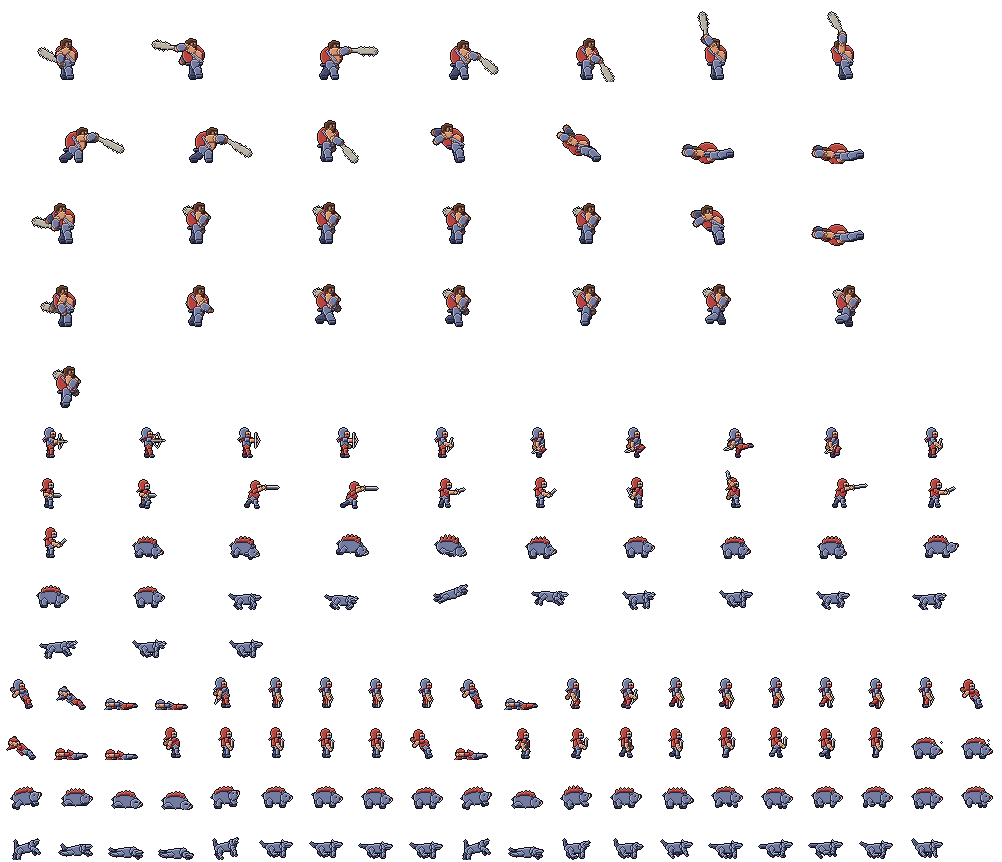
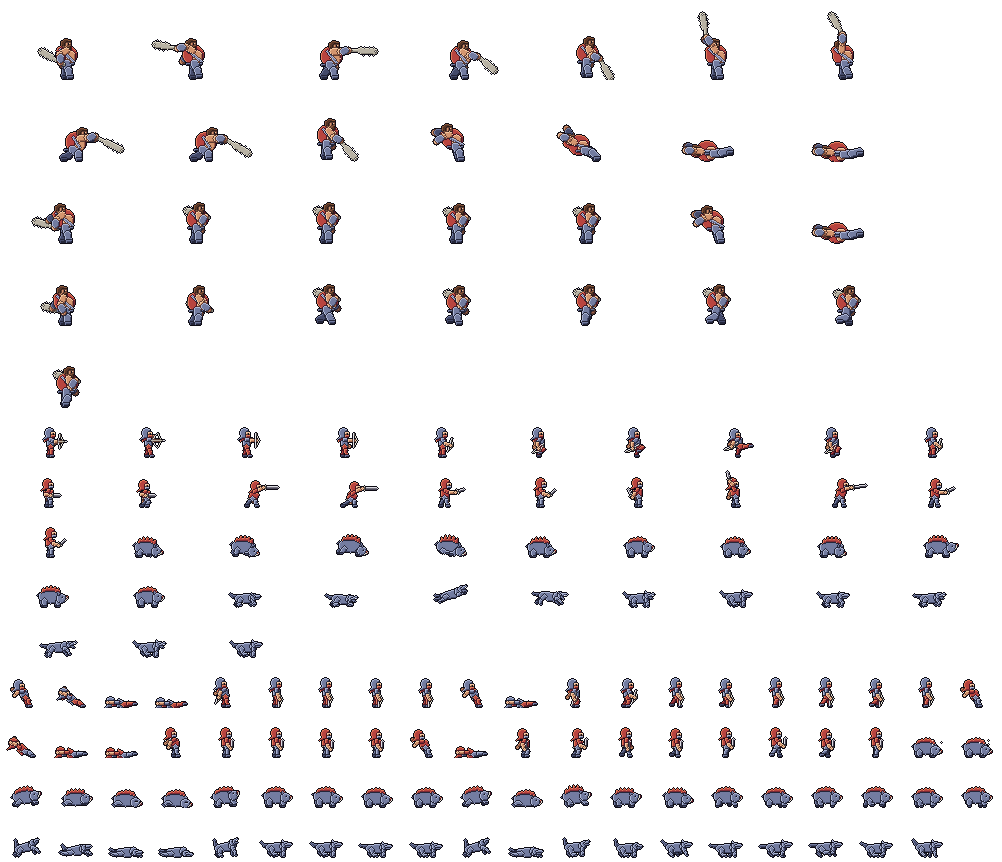
art: keep Stage 1 enemies above the floor in every frame
77 frames drew 1-2 px below the sole row (08 §4.1). Feet now stop at the ground and lying poses are lifted.

Claude-Session: https://claude.ai/code/session_018E1RbT7Agev2Psz4WcAtF7

diff --git a/tools/art/enemies/plains.py b/tools/art/enemies/plains.py
@@ -28,6 +28,20 @@ def finish(f):
     return c.to_image()
 
 
+def on_ground(img, anchor_y):
+    """Lift a frame so nothing is drawn below the sole row (anchor_y - 1); 08 §4.1."""
+    import numpy as np
+    from PIL import Image
+    a = np.array(img)
+    rows = np.nonzero(a[:, :, 3].any(axis=1))[0]
+    over = int(rows.max()) - (anchor_y - 1) if len(rows) else 0
+    if over <= 0:
+        return img
+    out = np.zeros_like(a)
+    out[:-over] = a[over:]
+    return Image.fromarray(out, 'RGBA')
+
+
 def seg(p, deg, length):
     r = math.radians(deg)
     return (p[0] + length * math.sin(r), p[1] + length * math.cos(r))
@@ -153,6 +167,7 @@ def draw_human(enemy, pose, size, feet):
         sh = f.part('shin' + side, s['pants'], shift)
         b = f.part('boot' + side, s['boots'], shift + 1)
         kn, ft = j['knee' + side], j['foot' + side]
+        ft = (ft[0], min(ft[1], feet[1]))                 # feet never sink into the ground
         R.capsule(f.L, (hpx, hpy + 1), kn, tw, t)
         R.capsule(f.L, kn, (ft[0], ft[1] - int(tw - 1) // 2), tw - 1, sh)
         bw = 3 if big else 2
@@ -378,6 +393,7 @@ def draw_wolf(pose, size, feet):
         lo = f.part('lo' + key, 'en_slate', shift)
         kn = seg(root, hd, 5.5 if hind else 4)
         ft = seg(kn, hd + (kd if hind else -kd), 4)
+        ft = (ft[0], min(ft[1], fy))                      # feet never sink into the ground
         R.capsule(f.L, ip(root), ip(kn), 4 if hind else 3, up)
         R.capsule(f.L, ip(kn), ip((ft[0], ft[1] - 1)), 2, lo)
         paw = f.part('paw' + key, 'en_slate', shift + 1)
@@ -498,6 +514,7 @@ def draw_boar(pose, size, feet):
         hoof = f.part('hoof' + key, 'en_slate', shift + 2)
         kn = seg(root, hd, 3)
         ft = seg(kn, hd + (kd if hind else -kd), 3)
+        ft = (ft[0], min(ft[1], fy))                      # feet never sink into the ground
         R.capsule(f.L, ip(root), ip(kn), 4, up)
         R.capsule(f.L, ip(kn), ip((ft[0], ft[1] - 1)), 3, up)
         box(f, rnd(ft[0]) - 1, rnd(ft[1]), rnd(ft[0]) + 1, rnd(ft[1]), hoof)
@@ -640,7 +657,7 @@ def build_frames():
         for anim, poses in table.items():
             size, (ax, ay) = frame_size(enemy, anim)
             for i, pose in enumerate(poses):
-                frames[f'{enemy}_{anim}_{i:02d}'] = drawer(pose, size, (ax, ay - 2))
+                frames[f'{enemy}_{anim}_{i:02d}'] = on_ground(drawer(pose, size, (ax, ay - 2)), ay)
             anims.append(anim_def(enemy, anim, len(poses)))
     return frames, anims
 

diff --git a/tools/tests/test_enemies_plains.py b/tools/tests/test_enemies_plains.py
@@ -43,6 +43,8 @@ class EnemiesPlainsTest(unittest.TestCase):
 
     def test_reach_rule(self):
         for enemy, attacks in ATTACK_BOX.items():
+            if enemy not in EXPECTED:
+                continue
             for atk, box in attacks.items():
                 if box is None:
                     continue
@@ -54,6 +56,8 @@ class EnemiesPlainsTest(unittest.TestCase):
 
     def test_idle_silhouette(self):
         for enemy, (w, h) in HURTBOX.items():
+            if enemy not in EXPECTED:
+                continue
             (fw, fh), (ax, ay) = size_anchor(enemy, 'idle')
             a = np.array(self.frames[f'{enemy}_idle_00'])[:, :, 3] > 0
             cols = np.nonzero(a.any(axis=0))[0]
@@ -62,6 +66,13 @@ class EnemiesPlainsTest(unittest.TestCase):
             self.assertLessEqual(abs(cols.max() + 1 - (ax + w / 2)), 3, (enemy, 'right', cols.max() + 1))
             self.assertLessEqual(abs(rows.min() - (ay - h)), 3, (enemy, 'top', rows.min()))
             self.assertEqual(rows.max(), ay - 1, (enemy, 'sole'))
+
+    def test_nothing_below_the_sole_row(self):
+        for name, img in self.frames.items():
+            enemy = next(e for e in sorted(EXPECTED, key=len, reverse=True) if name.startswith(e + '_'))
+            _, (ax, ay) = size_anchor(enemy, name[len(enemy) + 1:])
+            a = np.array(img)[:, :, 3] > 0
+            self.assertFalse(a[ay:].any(), name)
 
     def test_hue_families(self):
         world = P.allowed(P.PLAINS_WORLD_RAMPS) - set(P.RAMPS['ink']) - set(P.RAMPS['white'])
